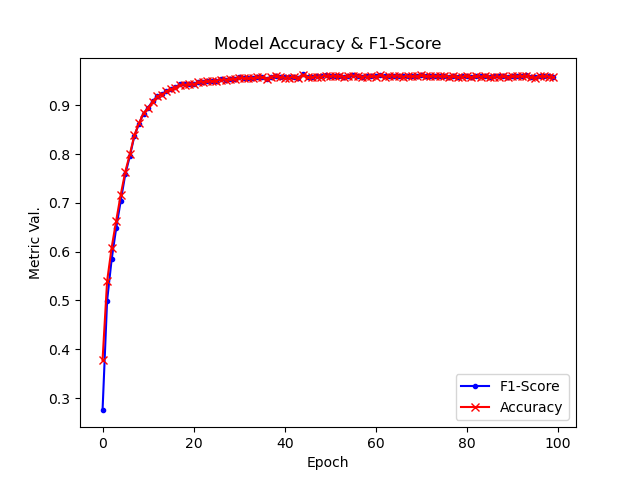
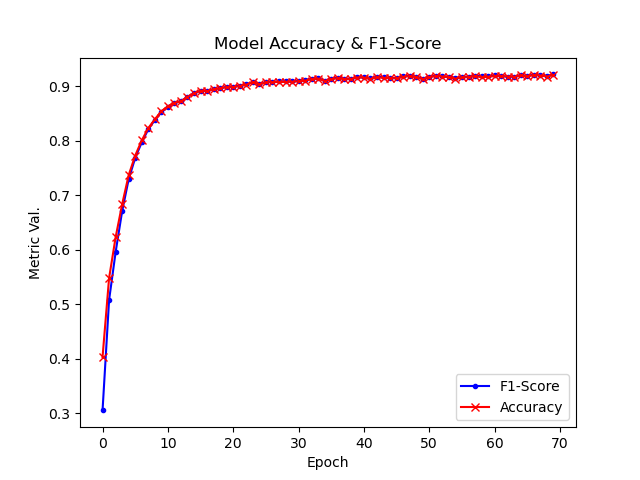
Updating source and generated files; details of training model:
Model ID: G
Hyperparameter Set: 03
batch_size = 50
chords_on_either_side = 3
STEPS_PER_EPOCH = 1024
TOTAL_EPOCHS = 70
Training Time (per Epoch): 3.73 min/epoch
Training Accuracy: 0.921
Training F1-Score: 0.921

Generated Song Accuracy:
DataGen (Training Set): 0.92 [23/25]
DataGen (Test Set): 0.76  [19/25]

diff --git a/run_model.py b/run_model.py
@@ -5,34 +5,31 @@ import tensorflow as tf
 import random
 from tensorflow.keras import layers
 from Chord import Chord
-from data_gen import data_gen
+from data_gen import data_gen, testdata_gen
 from tensorflow.keras.utils import plot_model
 from metrics import f1_m
 from tensorflow.keras.models import load_model
+from load_pickle import return_songs_as_list_of_lists_of_chords, return_songs_as_list_of_lists_of_np_arrays
 
 # import matplotlib.pyplot as plt
-
+#TEST_FILE = "test.pickle"
 sample_chord = Chord()
 chord_array_len = sample_chord.number_of_unique_roots * sample_chord.number_of_unique_qualities
 
 batch_size = 50
-chords_on_either_side = 4
+chords_on_either_side = 3
 STEPS_PER_EPOCH = 1024
-TOTAL_EPOCHS = 100
+TOTAL_EPOCHS = 70
 OUTPUT_BATCH = 25 # song created is of length (chords): (OUTPUT_BATCH * chords_on_either_side * 2) + OUTPUT_BATCH
 
 # START of model definition
-
 model = tf.keras.Sequential()
-#model.add(layers.LSTM(512,activation='tanh',recurrent_activation='sigmoid',return_sequences=True, input_shape=(2 * chords_on_either_side, chord_array_len)))
-model.add(layers.GRU(512, activation='tanh', recurrent_activation='sigmoid', return_sequences=True, return_state=False, input_shape=(2 * chords_on_either_side, chord_array_len)))
+model.add(layers.LSTM(512,activation='tanh',recurrent_activation='sigmoid',return_sequences=True, input_shape=(2 * chords_on_either_side, chord_array_len)))
 model.add(layers.Dropout(0.15))
-#model.add(layers.LSTM(256,activation='tanh',recurrent_activation='sigmoid',return_sequences=False))
-model.add(layers.GRU(256,activation='tanh',recurrent_activation='sigmoid',return_sequences=False))
+model.add(layers.LSTM(256,activation='tanh',recurrent_activation='sigmoid',return_sequences=False))
 model.add(layers.Dropout(0.15))
 model.add(layers.Dense(chord_array_len))
 model.add(layers.Activation('softmax'))
-
 # END of model definition
 
 model.compile(
@@ -50,8 +47,8 @@ history = model.fit(
     data_gen(chords_on_either_side=chords_on_either_side, batch_size=batch_size),
     steps_per_epoch=STEPS_PER_EPOCH,
     epochs=TOTAL_EPOCHS,verbose=1)
-    
-  
+
+
 # Plot training accuracy values
 # Plot F1 Metric
 plt.plot(history.history['f1_m'],marker=".",color="Blue")
@@ -73,16 +70,18 @@ plt.legend(['Train'], loc='upper right')
 plt.savefig('ProjF_Plot_Loss.png')
 #plt.show()
 plt.close()
-
-model.save('ProjF_ModelD.hd5')
+#'''
+model.save_weights('ProjF_Weights_G_01.hd5')
 #del model
 #model = load_model('ProjF_Model.hd5')
+#model.load_weights('ProjF_Weights.hd5')
+#test_songs = return_songs_as_list_of_lists_of_np_arrays(filename=TEST_FILE)
 
 
 counter = 0
 for chords_x,chord_y,n in data_gen(chords_on_either_side=chords_on_either_side, batch_size=OUTPUT_BATCH):
     counter = counter + 1
-    if counter > 1:
+    if counter >= 1:
         break
 
 ch_prediction_array = model.predict(x=chords_x)
@@ -98,7 +97,30 @@ for idx in range(0,total_chords):
     print("index: {}  ch_prediction: {}  actual_chord: {} ".format(idx,ch_prediction, ch_actual))
 
 accuracy = matching_chords / total_chords
-print("Correct Predictions: {}/{}  Accuracy: {}".format(matching_chords,total_chords,accuracy))
+print("\r\nTraining Set: Correct Predictions: {}/{}  Accuracy: {}\r\n".format(matching_chords,total_chords,accuracy))
+
+
+
+counter = 0
+for chords_x,chord_y,n in testdata_gen(chords_on_either_side=chords_on_either_side, batch_size=OUTPUT_BATCH):
+    counter = counter + 1
+    if counter >= 1:
+        break
+
+ch_prediction_array = model.predict(x=chords_x)
+
+#obtain and print predictions from the array of chords_x obtained from data_gen
+matching_chords = 0
+total_chords = len(chords_x)
+for idx in range(0,total_chords):
+    if(np.argmax(ch_prediction_array[idx])==np.argmax(chord_y[idx])):
+        matching_chords=matching_chords+1
+    ch_prediction = Chord(np_array=ch_prediction_array[idx])
+    ch_actual = Chord(np_array=chord_y[idx])
+    print("index: {}  ch_prediction: {}  actual_chord: {} ".format(idx,ch_prediction, ch_actual))
+
+accuracy = matching_chords / total_chords
+print("\r\nTest Set Correct Predictions: {}/{}  Accuracy: {}".format(matching_chords,total_chords,accuracy))
 
 #Make a the songs with the predictions, and original center chords using the data generator
 generated_song_np = []

diff --git a/data_gen.py b/data_gen.py
@@ -4,6 +4,7 @@ from load_pickle import return_songs_as_list_of_lists_of_np_arrays
 from Chord import Chord
 import numpy as np
 
+
 def data_gen(chords_on_either_side=2, batch_size=10):
     """
     Will return a batch of input data and their labels
@@ -23,6 +24,66 @@ def data_gen(chords_on_either_side=2, batch_size=10):
                             target_chord2]
     """
     songs = return_songs_as_list_of_lists_of_np_arrays()
+    len_sequence = 2*chords_on_either_side + 1
+    songs = [song for song in songs if len(song) >= len_sequence] #filter short songs
+    while True:
+        x_batch = []
+        y_batch = []
+
+        for i in range(batch_size):
+            # Create random arrays
+            rand_song = random.choice(songs) #this will overvalue chords from short songs
+            #print(rand_song)
+
+            
+            first_xchord_min_index = 0
+            first_xchord_max_index = len(rand_song) - len_sequence
+            first_xchord_index = random.randint(first_xchord_min_index, first_xchord_max_index)
+
+            #print("------")
+            #print(first_xchord_min_index, first_xchord_max_index, first_xchord_index)
+            #print("------")
+
+            x_before = rand_song[first_xchord_index:(first_xchord_index+chords_on_either_side)]
+            y = rand_song[first_xchord_index+chords_on_either_side]
+            x_after = rand_song[(first_xchord_index+chords_on_either_side+1): first_xchord_index+chords_on_either_side+chords_on_either_side+1]
+
+            x = np.array(x_before + x_after)
+
+            #print(np.shape(x))
+            #print(np.shape(x_batch))
+            #print("------")
+            #print(x_after)
+            #print("------")
+
+            x_batch.append(x)
+            y_batch.append(y)
+        #print("Shape of x Batch: ")
+        #print(np.shape(x_batch))
+        #print("Shape of y Batch: ")
+        #print(np.shape(y_batch))
+        yield np.array(x_batch), np.array(y_batch), [None] #Magic None to avoid warning :)
+
+
+def testdata_gen(chords_on_either_side=2, batch_size=10):
+    """
+    Will return a batch of input data and their labels
+    Chords on either side is the number of chords on either side of the target chord
+
+    So if chords on either side is 1 and batch size is two
+    
+    if the song looked like
+    preceding_chord_1, target_chord1, following_chord_1
+    preceding_chord_2, target_chord2, following_chord_2
+
+
+    the x data will look like [preceding_chord_1, following_chord_1
+                               preceding_chord_2, following_chord_2]
+
+    and the y data will be [target_chord1
+                            target_chord2]
+    """
+    songs = return_songs_as_list_of_lists_of_np_arrays(filename='test_songs.pickle')
     len_sequence = 2*chords_on_either_side + 1
     songs = [song for song in songs if len(song) >= len_sequence] #filter short songs
     while True:
